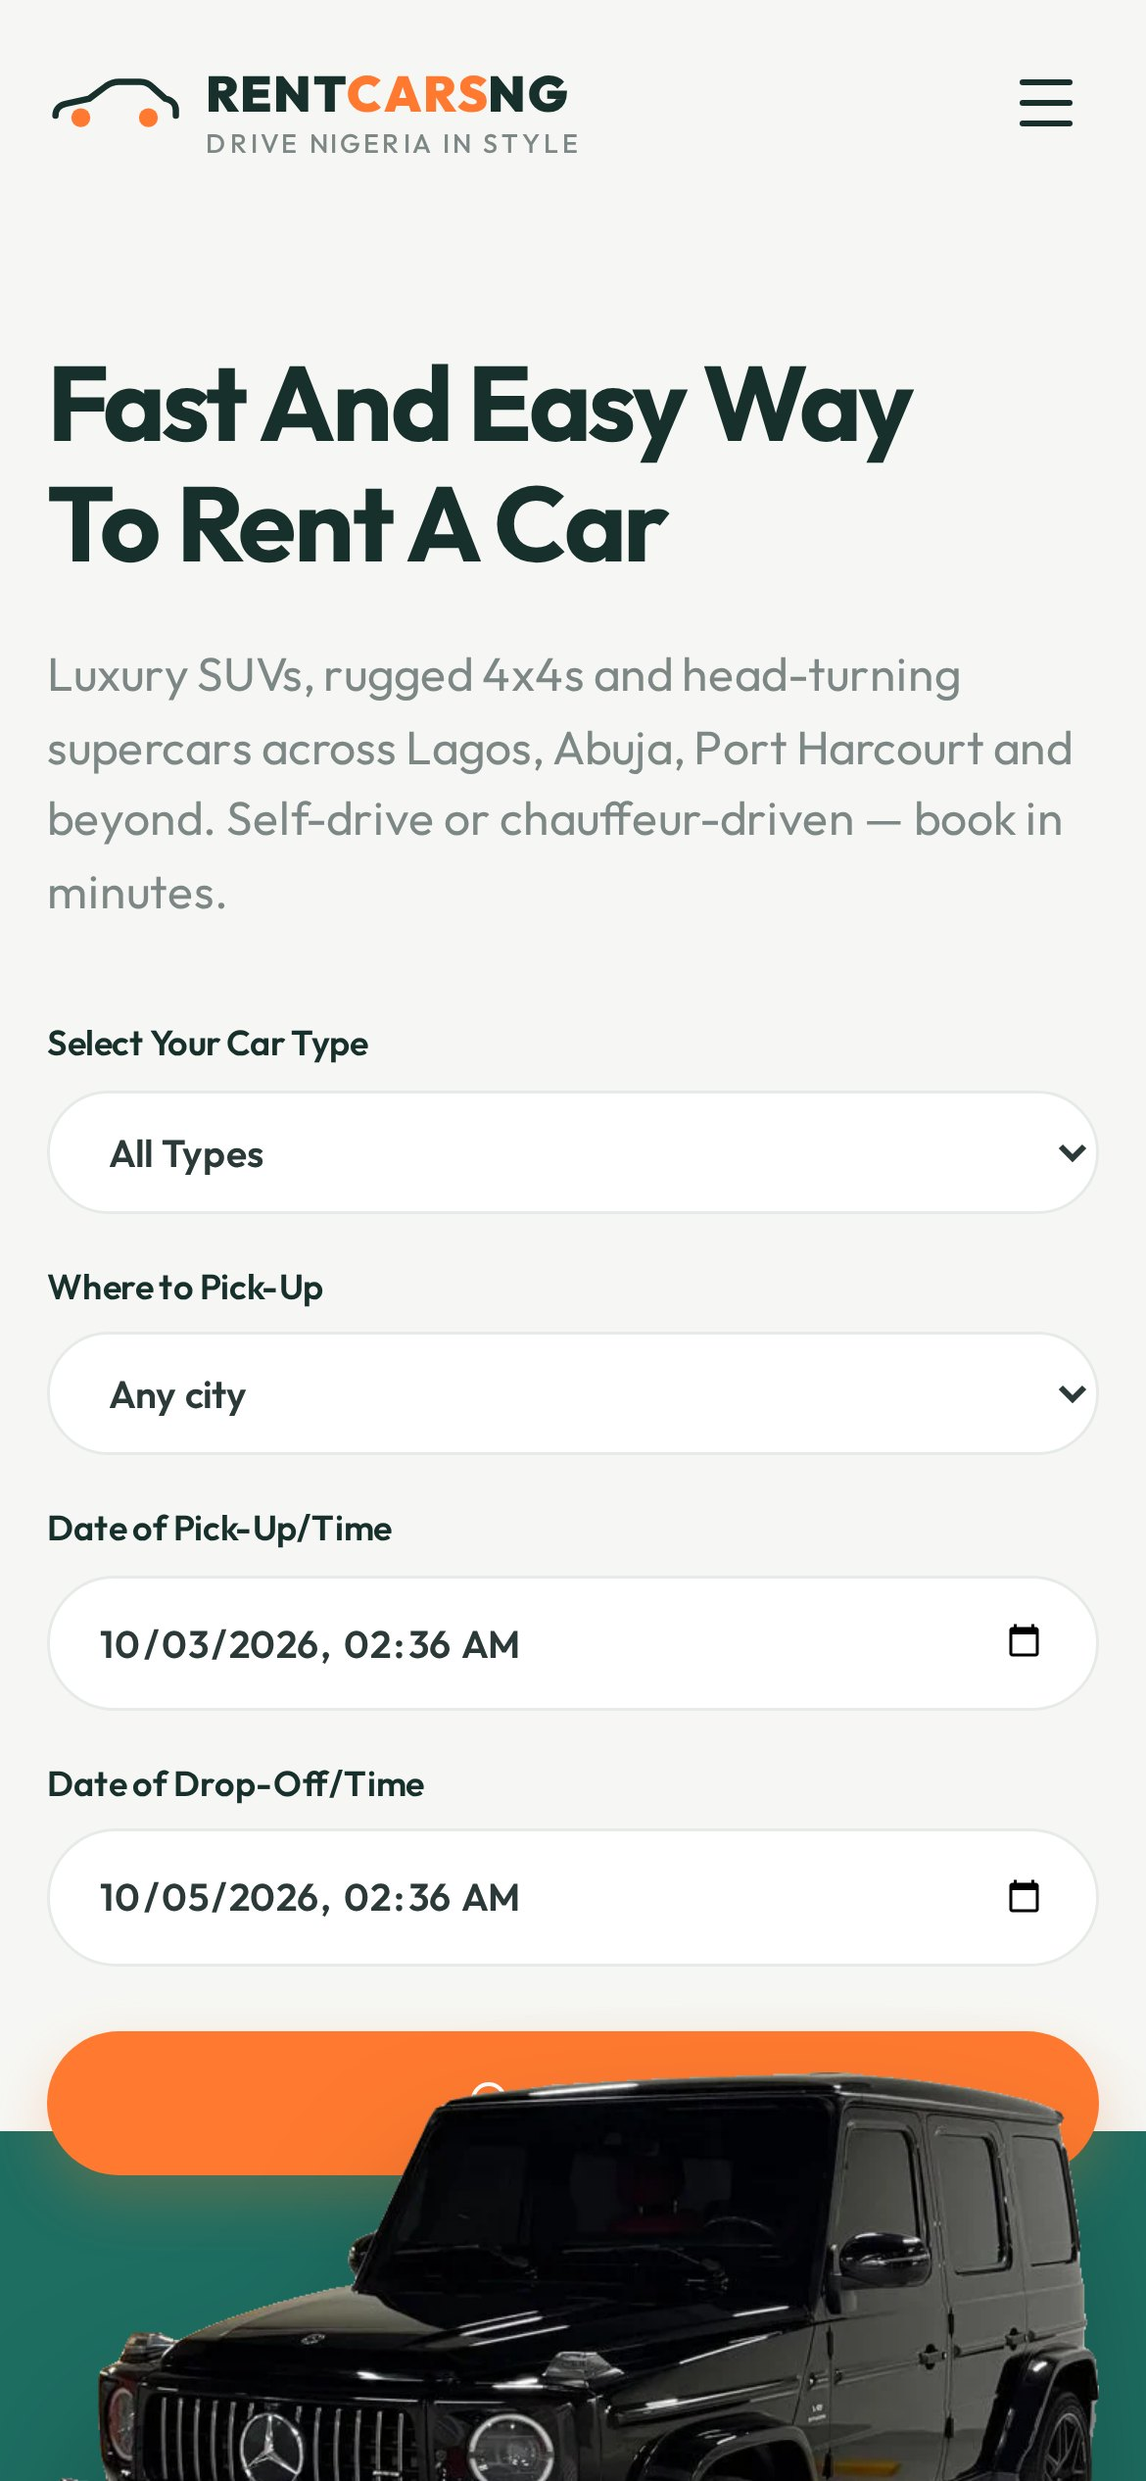
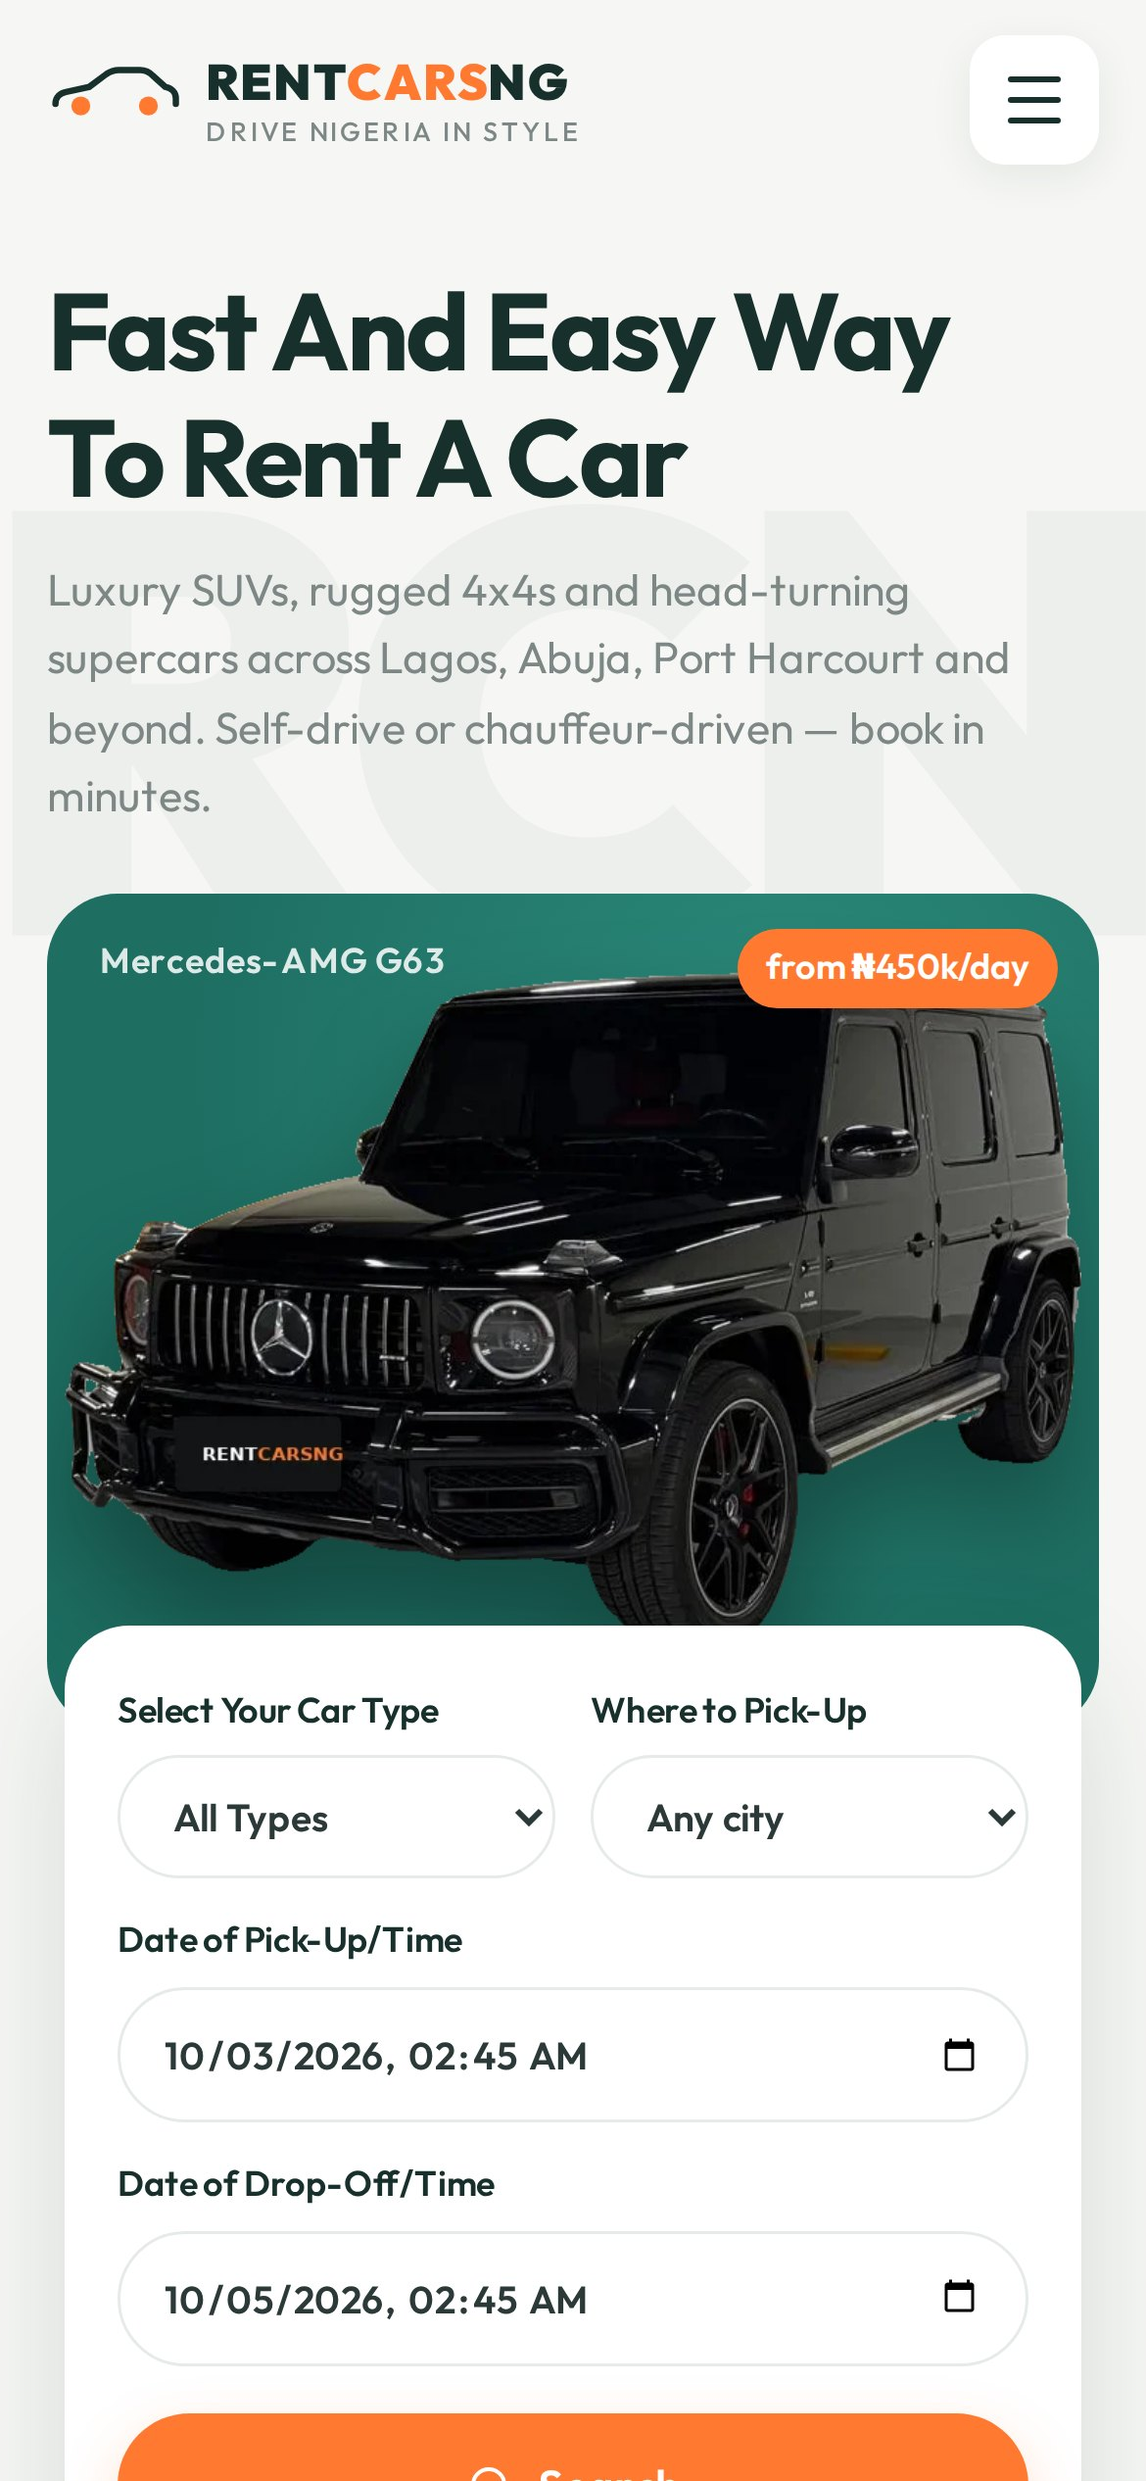
Rework mobile layout
Hero stacks headline, car card and a floating search card; steps become a
timeline; home rails swipe horizontally; compact 2-column fleet grid;
scrollable chips/cities/specs; map card below map; sticky book bar on car
pages; redesigned mobile menu; 2-column footer; fix horizontal overflow.
Refresh portfolio screenshots and covers.

Claude-Session: https://claude.ai/code/session_01NN3AjHfyDoYdseDfv3sRqC

diff --git a/src/styles.css b/src/styles.css
@@ -17,7 +17,7 @@
 }
 
 * { box-sizing: border-box; }
-html { scroll-behavior: smooth; }
+html { scroll-behavior: smooth; overflow-x: clip; }
 body {
   margin: 0;
   font-family: var(--font);
@@ -372,49 +372,220 @@ p { margin: 0; }
   .nav__links { gap: 20px; }
   .footer__grid { grid-template-columns: 1fr 1fr; }
 }
+/* Desktop: hero media is just a wrapper */
+.hero__media { position: relative; }
+.book-bar { display: none; }
+
 @media (max-width: 880px) {
-  .nav__toggle { display: block; }
+  /* ---- Nav / menu ---- */
+  .nav__toggle { display: grid; place-items: center; width: 44px; height: 44px; border-radius: 12px; background: #fff; box-shadow: 0 4px 14px rgba(23,48,44,.08); }
   .nav__links, .nav__actions { display: none; }
-  .nav--open .nav__inner { flex-wrap: wrap; height: auto; padding: 18px 0; }
-  .nav--open .nav__links, .nav--open .nav__actions { display: flex; flex-direction: column; width: 100%; gap: 16px; order: 3; }
-  .nav--open .nav__actions { flex-direction: row; padding-bottom: 6px; }
+  .nav__inner { height: 68px; }
+  .nav--open { background: #fff; box-shadow: 0 20px 40px rgba(23,48,44,.15); }
+  .nav--open .nav__inner { flex-wrap: wrap; height: auto; padding: 12px 0 22px; }
+  .nav--open .logo { min-height: 44px; }
+  .nav--open .nav__links { display: flex; flex-direction: column; width: 100%; order: 3; gap: 0; margin-top: 10px; animation: rise .35s ease both; }
+  .nav--open .nav__links a { font-size: 18px; font-weight: 500; padding: 14px 4px; border-bottom: 1px solid var(--line); }
+  .nav--open .nav__actions { display: grid; grid-template-columns: 1fr 1fr; width: 100%; order: 4; gap: 12px; margin-top: 18px; animation: rise .35s .05s ease both; }
+  .nav--open .nav__actions a { text-align: center; padding: 13px; border-radius: 999px; font-size: 15px; }
+  .nav--open .nav__signin { border: 1.5px solid var(--line); }
+  .nav--open .nav__actions .btn { box-shadow: none; }
+
+  /* ---- Layout ---- */
   .hero__inner, .banner__inner, .services, .split, .detail__grid, .contact, .auth { grid-template-columns: 1fr; }
-  .hero__panel { width: 100%; height: 34%; top: auto; bottom: 0; }
-  .hero__car { width: 100%; margin: 10px 0 0; }
-  .banner img { justify-self: center; max-height: 200px; }
   .split--rev .split__img { order: 0; }
-  .split { gap: 26px; margin-bottom: 50px; }
-  .steps { grid-template-columns: 1fr; }
-  .step::after { display: none; }
-  .grid-3, .reasons { grid-template-columns: 1fr 1fr; }
+  .split { gap: 22px; margin-bottom: 44px; }
   .booking { position: static; }
-  .auth__art { padding: 40px 24px; }
-  .auth__art img { width: 80%; margin: 0 auto 20px; }
-  .auth__form { padding: 40px 24px; }
+  .detail__grid > *, .contact > *, .services > *, .split > * { min-width: 0; }
+  .nav .nav__toggle { color: var(--ink) !important; }
+  .grid-3, .reasons { grid-template-columns: 1fr 1fr; }
   .stats { grid-template-columns: 1fr 1fr; }
-}
-@media (max-width: 600px) {
-  .container { width: calc(100% - 32px); }
-  .section { padding: 54px 0; }
-  .search { grid-template-columns: 1fr; }
-  .search__btn { width: 100%; }
-  .grid-3, .reasons, .footer__grid { grid-template-columns: 1fr; }
-  .form-grid { grid-template-columns: 1fr; }
-  .span-2 { grid-column: auto; }
-  .detail__specs { grid-template-columns: repeat(3, 1fr); }
-  .detail__media { height: 280px; }
-  .map { height: 480px; }
-  .map__card { left: 12px; right: 12px; bottom: 12px; max-width: none; }
-  .filters, .filters__selects { flex-direction: column; align-items: stretch; width: 100%; }
-  .filters select { width: 100%; }
-  .chips--left { justify-content: center; }
-  .offroad__title { letter-spacing: 0; font-size: 11vw; }
-  .lineup--0, .lineup--4 { display: none; }
-  .lineup--1 { left: 0; width: 36%; }
-  .lineup--2 { left: 22%; width: 56%; }
-  .lineup--3 { right: 0; width: 36%; }
+  .auth__art { padding: 36px 20px; }
+  .auth__art img { width: 80%; margin: 0 auto 16px; }
+  .auth__form { padding: 36px 20px; }
+
+  /* ---- Hero: headline → car card → search card ---- */
+  .hero { margin-top: -68px; padding: 92px 0 40px; }
+  .hero__panel { display: none; }
+  .hero__bgtext { font-size: 52vw; bottom: auto; top: 160px; }
+  .hero__inner { display: flex; flex-direction: column; align-items: stretch; gap: 0; }
+  .hero__car[data-parallax], .services__car[data-parallax], .banner img[data-parallax] { translate: none; }
+  .hero__copy { display: contents; }
+  .hero__copy h1 { order: 1; font-size: clamp(34px, 9.5vw, 46px); }
+  .hero__copy > p { order: 2; margin: 12px 0 22px; font-size: 15px; }
+  .hero__media {
+    order: 3; border-radius: 24px; padding: 30px 6px 18px; margin-bottom: -36px;
+    background: radial-gradient(circle at 70% 20%, #2b8a7b, var(--teal) 60%);
+    overflow: hidden;
+  }
+  .hero__media::before {
+    content: 'Mercedes-AMG G63'; position: absolute; top: 14px; left: 18px; color: rgba(255,255,255,.85);
+    font-size: 12px; font-weight: 600; letter-spacing: .5px;
+  }
+  .hero__media::after {
+    content: 'from ₦450k/day'; position: absolute; top: 12px; right: 14px; color: #fff; background: var(--orange);
+    font-size: 12px; font-weight: 600; padding: 4px 10px; border-radius: 999px;
+  }
+  .hero__car { width: 100%; margin: 6px 0 0; filter: drop-shadow(0 20px 18px rgba(0,0,0,.35)); }
+  .hero__copy .search {
+    order: 4; position: relative; z-index: 2; background: #fff; border-radius: 22px; padding: 20px 18px;
+    box-shadow: 0 16px 40px rgba(23,48,44,.14); margin: 0 6px; max-width: none;
+  }
+
+  /* ---- Steps become a vertical timeline ---- */
+  .steps { grid-template-columns: 1fr; gap: 0; max-width: 520px; margin: 0 auto; }
+  .step { display: grid; grid-template-columns: 60px 1fr; column-gap: 16px; text-align: left; padding: 0 0 26px; }
+  .step__icon { grid-row: span 2; width: 56px; height: 56px; margin: 0; border-radius: 14px; }
+  .step h3 { margin: 4px 0 4px; font-size: 17px; }
+  .step p { margin: 0; max-width: none; }
+  .step:not(:last-child)::after {
+    top: 64px; left: 27px; width: 2px; height: calc(100% - 70px);
+    background: repeating-linear-gradient(180deg, #b9c5c2 0 6px, transparent 6px 11px); animation: none;
+  }
+
+  .banner { margin-top: -68px; padding: 100px 0 36px; }
+  .banner img { justify-self: center; max-height: 170px; }
+  .services { gap: 30px; }
 }
 
+@media (max-width: 600px) {
+  .container { width: calc(100% - 32px); }
+  .narrow { width: calc(100% - 32px); }
+  .section { padding: 48px 0; }
+  .heading { margin-bottom: 28px; }
+  .heading h2 { font-size: 27px; }
+  .heading p { font-size: 14px; margin-top: 10px; }
+  .h2-left { font-size: 25px; }
+  .mt { margin-top: 24px; }
+
+  /* Search card */
+  .search { grid-template-columns: 1fr 1fr; gap: 12px; }
+  .search label:nth-of-type(3), .search label:nth-of-type(4) { grid-column: span 2; }
+  .search select, .search input { padding: 11px 14px; }
+  .search__btn { grid-column: span 2; width: 100%; min-width: 0; margin-top: 4px; }
+  .search-wrap .search { padding: 20px 18px; }
+
+  /* Horizontal swipe rails on the home page / related cars */
+  .rail {
+    display: flex; gap: 14px; overflow-x: auto; scroll-snap-type: x mandatory; -webkit-overflow-scrolling: touch;
+    margin: 0 -16px; padding: 6px 16px 22px; scroll-padding: 16px; scrollbar-width: none;
+  }
+  .rail::-webkit-scrollbar { display: none; }
+  .rail > * { flex: 0 0 82%; scroll-snap-align: start; }
+  .rail > .post { flex-basis: 78%; }
+
+  /* Brand chips & city picker scroll sideways instead of wrapping */
+  .chips, .cities {
+    flex-wrap: nowrap; justify-content: flex-start; overflow-x: auto; margin-left: -16px; margin-right: -16px;
+    padding: 4px 16px 8px; scrollbar-width: none;
+  }
+  .chips::-webkit-scrollbar, .cities::-webkit-scrollbar { display: none; }
+  .chip { flex: none; }
+  .chips { margin-bottom: 20px; }
+  .city { flex: none; min-width: 72px; }
+  .city span { width: 58px; height: 58px; }
+
+  /* Cards */
+  .car-card { padding: 18px 16px 20px; }
+  .car-card__img { height: 160px; margin: 14px 0 8px; }
+
+  /* Fleet page: compact 2-column grid */
+  .fleet-grid { grid-template-columns: 1fr 1fr; gap: 12px; }
+  .fleet-grid .car-card { padding: 12px 10px 14px; border-radius: 16px; }
+  .fleet-grid .car-card .tag { top: 10px; left: 10px; font-size: 10px; padding: 2px 7px; }
+  .fleet-grid .car-card__img { height: 96px; margin: 22px 0 6px; }
+  .fleet-grid .car-card h3 { font-size: 13.5px; line-height: 1.25; min-height: 34px; display: flex; align-items: center; justify-content: center; }
+  .fleet-grid .specs { margin: 6px 0 8px; gap: 2px 8px; font-size: 11px; }
+  .fleet-grid .specs li:last-child { display: none; }
+  .fleet-grid .car-card__price { font-size: 11px; margin-bottom: 10px; line-height: 1.3; }
+  .fleet-grid .car-card__price span { display: none; }
+  .fleet-grid .car-card__price b { font-size: 15px; }
+  .fleet-grid .car-card__actions { gap: 6px; }
+  .fleet-grid .car-card__actions .btn { padding: 7px 0; font-size: 12px; flex: 1; }
+
+  /* Filters */
+  .filters { flex-direction: column; align-items: stretch; gap: 12px; }
+  .filters .chips { margin-bottom: 0; max-width: calc(100% + 32px); min-width: 0; }
+  .filters { min-width: 0; max-width: 100%; }
+  .filters__selects { display: grid; grid-template-columns: 1fr 1fr; gap: 8px; }
+  .filters select { width: 100%; min-width: 0; padding: 10px 12px; }
+  .results { margin-bottom: 16px; }
+
+  /* Services */
+  .services__list { gap: 22px; }
+  .icon-box { width: 48px; height: 48px; }
+
+  /* Branches: map with the info card underneath */
+  .branch-search { margin: -6px auto 20px; }
+  .cities { margin-bottom: 18px; }
+  .map { height: auto; display: flex; flex-direction: column; background: #fff; }
+  .map iframe { height: 260px; }
+  .map__card { position: static; max-width: none; box-shadow: none; border-radius: 0; padding: 16px 18px 18px; }
+
+  /* Testimonials / blog */
+  .review { padding: 20px; }
+
+  /* Off-road */
+  .offroad__title { letter-spacing: 0; font-size: 11.5vw; margin-bottom: 0; }
+  .offroad__lineup { height: 58vw; margin-bottom: 24px; }
+  .lineup--0, .lineup--4 { display: none; }
+  .lineup--1 { left: -4%; width: 44%; bottom: 6%; }
+  .lineup--2 { left: 20%; width: 60%; }
+  .lineup--3 { right: -4%; width: 44%; bottom: 6%; }
+
+  .brand-strip { padding: 22px 0; }
+  .brand-strip span { font-size: 18px; }
+  .brand-strip__track { gap: 44px; }
+
+  /* Why us / FAQ */
+  .stats { padding: 24px 12px; gap: 18px 8px; margin-bottom: 50px; }
+  .stats b { font-size: 30px; }
+  .reasons { grid-template-columns: 1fr 1fr; gap: 12px; }
+  .reason { padding: 18px 14px; }
+  .reason h3 { font-size: 15px; margin: 12px 0 6px; }
+  .reason p { font-size: 12.5px; }
+  .faq__item button { padding: 16px 18px; font-size: 15px; }
+
+  /* Car detail */
+  .detail { padding: 16px 0 30px; }
+  .back { margin-bottom: 12px; }
+  .detail__media { height: 250px; border-radius: 18px; }
+  .detail__thumbs { margin: 10px 0 18px; }
+  .detail__thumbs button { width: 80px; height: 58px; }
+  .detail__specs {
+    display: flex; overflow-x: auto; gap: 8px; margin: 0 -16px 20px; padding: 4px 16px 10px; scrollbar-width: none;
+  }
+  .detail__specs::-webkit-scrollbar { display: none; }
+  .detail__specs li { flex: 0 0 92px; }
+  .detail__price { font-size: 28px; margin-bottom: 8px; }
+  .booking { padding: 22px 18px; border-radius: 20px; }
+  .form-grid { grid-template-columns: 1fr 1fr; gap: 12px; }
+  .form-grid label:has(input[type='email']), .form-grid label:has(select), .form-grid label:has(textarea),
+  .form-grid label:has(input[type='datetime-local']) { grid-column: span 2; }
+  .span-2 { grid-column: span 2; }
+  .book-bar {
+    display: flex; position: fixed; left: 12px; right: 12px; bottom: 12px; z-index: 55; align-items: center; justify-content: space-between;
+    background: var(--ink); color: #fff; border-radius: 18px; padding: 10px 10px 10px 18px; box-shadow: 0 14px 30px rgba(0,0,0,.25);
+    animation: rise .5s .3s ease both;
+  }
+  .book-bar b { font-size: 18px; color: #fff; }
+  .book-bar span { font-size: 13px; opacity: .7; }
+  .book-bar .btn { padding: 11px 22px; font-size: 14px; }
+  main:has(.book-bar) ~ .footer { padding-bottom: 90px; }
+  body:has(.book-bar) .to-top { bottom: 84px; }
+
+  /* Contact */
+  .contact { gap: 30px; }
+  .contact__info ul { margin-top: 20px; gap: 16px; }
+
+  /* Footer: 2 columns for contact + links */
+  .footer { padding: 44px 0 20px; }
+  .footer__grid { grid-template-columns: 1fr 1fr; gap: 30px 18px; }
+  .footer__grid > div:first-child, .footer__grid > div:last-child { grid-column: span 2; }
+  .footer__about { max-width: none; }
+  .footer__copy { margin-top: 30px; }
+  .to-top { width: 44px; height: 44px; right: 14px; bottom: 14px; }
+}
 
 /* ================= Motion ================= */
 /* Scroll reveal (classes applied by components/Motion.jsx) */

diff --git a/src/components/Sections.jsx b/src/components/Sections.jsx
@@ -105,7 +105,7 @@ export function CarCard({ car }) {
         <li><Settings2 size={15} /> {car.transmission}</li>
         <li><Gauge size={15} /> {car.mileage}</li>
       </ul>
-      <p className="car-card__price">Starting at <b>{naira(car.price)}</b>/Day</p>
+      <p className="car-card__price"><span>Starting at </span><b>{naira(car.price)}</b>/Day</p>
       <div className="car-card__actions">
         <Link to={`/cars/${car.id}`} className="btn btn--sm">Details</Link>
         <Link to={`/cars/${car.id}#book`} className="btn btn--sm btn--soft">Book Now</Link>
@@ -129,7 +129,7 @@ export function TopRated() {
             </button>
           ))}
         </div>
-        <div className="grid-3">
+        <div className="grid-3 rail">
           {list.map((c) => <CarCard key={c.id} car={c} />)}
         </div>
         <div className="center mt">
@@ -231,7 +231,7 @@ export function Testimonials({ count = 3 }) {
     <section className="section" id="testimonials">
       <div className="container">
         <SectionHeading title={<>What People Say<br />About Us?</>} text="Thousands of happy drivers across Nigeria trust RentCarsNG for business, weddings, holidays and everything in between." />
-        <div className="grid-3">
+        <div className="grid-3 rail">
           {testimonials.slice(0, count).map((t) => (
             <figure key={t.name} className="review">
               <header>
@@ -279,7 +279,7 @@ export function Blog() {
     <section className="section" id="blog">
       <div className="container">
         <SectionHeading title={<>Know More to<br />Choose</>} text="Reviews, road-trip stories and tips to help you pick the perfect car for every occasion." />
-        <div className="grid-3">
+        <div className="grid-3 rail">
           {posts.map((p) => (
             <article key={p.slug} className="post">
               <div className="post__img"><img src={p.image} alt="" loading="lazy" /></div>

diff --git a/src/pages/CarDetails.jsx b/src/pages/CarDetails.jsx
@@ -106,11 +106,15 @@ export default function CarDetails() {
           </div>
         </div>
       </section>
+      <div className="book-bar">
+        <div><b>{naira(car.price)}</b><span>/day</span></div>
+        <button className="btn btn--sm" onClick={() => document.getElementById('book')?.scrollIntoView({ behavior: 'smooth', block: 'start' })}>Book Now</button>
+      </div>
       {related.length > 0 && (
         <section className="section">
           <div className="container">
             <SectionHeading title="You May Also Like" />
-            <div className="grid-3">{related.map((c) => <CarCard key={c.id} car={c} />)}</div>
+            <div className="grid-3 rail">{related.map((c) => <CarCard key={c.id} car={c} />)}</div>
           </div>
         </section>
       )}

diff --git a/src/pages/Home.jsx b/src/pages/Home.jsx
@@ -15,7 +15,9 @@ export default function Home() {
             </p>
             <SearchForm />
           </div>
-          <img className="hero__car" data-parallax="0.12" src="/cars/cutout/g63-black.webp" alt="Black Mercedes-AMG G63" fetchpriority="high" />
+          <div className="hero__media">
+            <img className="hero__car" data-parallax="0.12" src="/cars/cutout/g63-black.webp" alt="Black Mercedes-AMG G63" fetchpriority="high" />
+          </div>
         </div>
       </section>
       <HowItWorks />

diff --git a/src/pages/RentalDeals.jsx b/src/pages/RentalDeals.jsx
@@ -54,7 +54,7 @@ export default function RentalDeals() {
           <p className="muted results">
             {list.length} car{list.length !== 1 && 's'} available{location && <> for pick-up in <b>{location}</b></>}
           </p>
-          <div className="grid-3">
+          <div className="grid-3 fleet-grid">
             {list.map((c) => <CarCard key={c.id} car={c} />)}
           </div>
           {!list.length && <p className="center muted">No cars match these filters.</p>}
